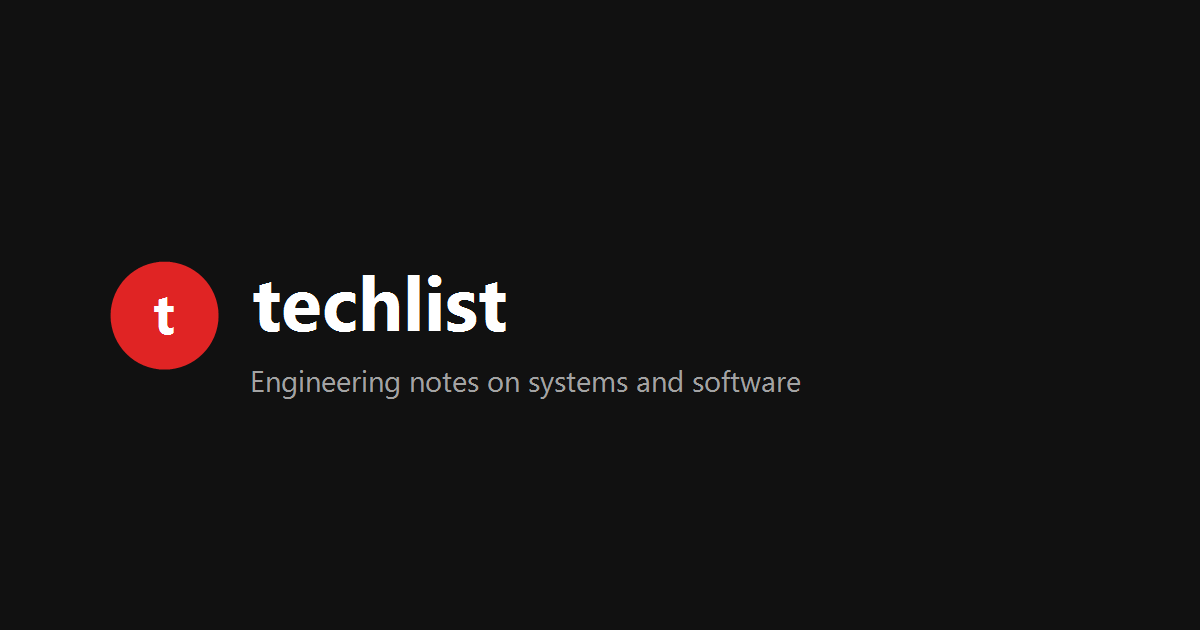
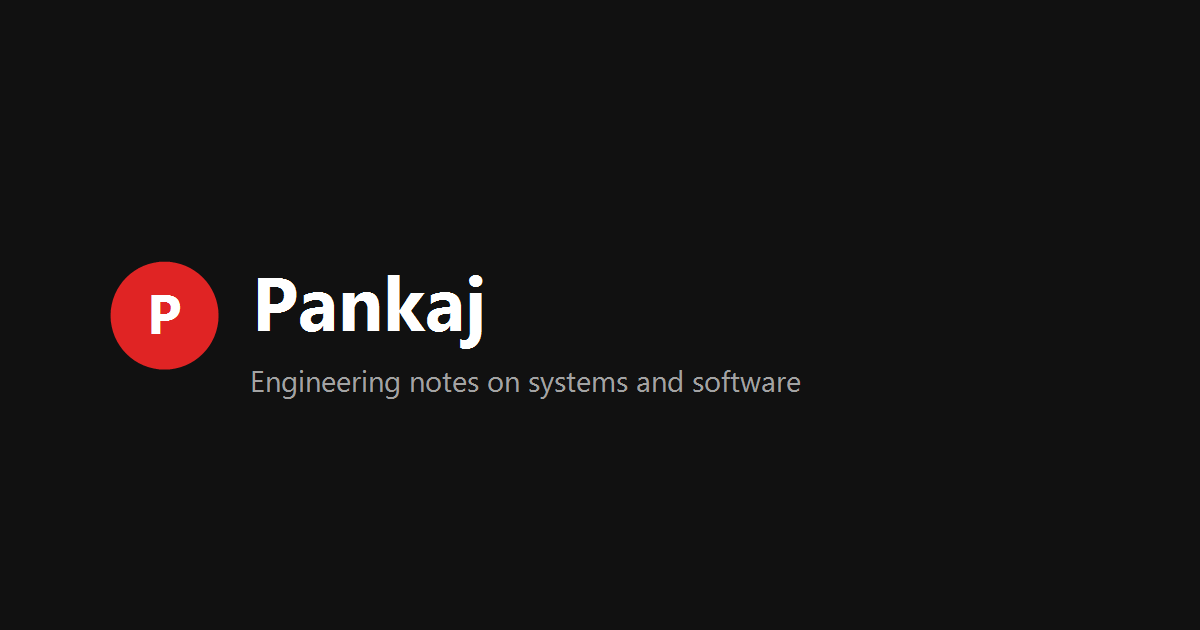
Rebrand the site to Pankaj and add password-only admin unlock.

Changed region(s): [[0.185, 0.4222, 0.4317, 0.573], [0.1233, 0.4524, 0.1542, 0.5429]]

diff --git a/src/lib/adminAuth.ts b/src/lib/adminAuth.ts
@@ -1,0 +1,26 @@
+import { createHash } from 'node:crypto';
+
+const SALT = 'techlist-admin';
+
+/**
+ * SHA-256 of salt + password.
+ * The plaintext password is never committed to git.
+ * Override at build time with ADMIN_PASSWORD if needed.
+ */
+const DEFAULT_PASSWORD_HASH =
[1 lines of base64/hex data omitted]
+
+function hashPassword(password: string): string {
+  return createHash('sha256').update(`${SALT}:${password}`).digest('hex');
+}
+
+export function getAdminAuthConfig() {
+  const password = import.meta.env.ADMIN_PASSWORD;
+  const credentialHash = password ? hashPassword(password) : DEFAULT_PASSWORD_HASH;
+
+  return {
+    enabled: true,
+    salt: SALT,
+    credentialHash,
+  };
+}

diff --git a/src/consts.ts b/src/consts.ts
@@ -1,8 +1,8 @@
 /** Site-wide identity used for SEO, RSS, CMS, and UI. */
-export const SITE_NAME = 'techlist';
+export const SITE_NAME = 'Pankaj';
 export const SITE_TAGLINE = 'Engineering notes on systems, software, and infrastructure.';
 export const SITE_DESCRIPTION =
-  'A personal technology publication covering software engineering, system design, distributed systems, databases, backend engineering, and AI.';
+  'Personal writing by Pankaj Chauhan on software engineering, system design, distributed systems, databases, backend engineering, and AI.';
 
 export const AUTHOR_NAME = 'Pankaj Chauhan';
 export const AUTHOR_ROLE = 'Software Engineer';

diff --git a/src/env.d.ts b/src/env.d.ts
@@ -2,6 +2,7 @@ interface ImportMetaEnv {
   readonly PUBLIC_SITE_URL?: string;
   readonly PUBLIC_GITHUB_REPO?: string;
   readonly PUBLIC_GITHUB_BRANCH?: string;
+  readonly ADMIN_PASSWORD?: string;
 }
 
 interface ImportMeta {

diff --git a/README.md b/README.md
@@ -1,6 +1,6 @@
-# techlist
+# Pankaj
 
-Personal technology publication for software engineering, system design, distributed systems, databases, backend engineering, and AI.
+Personal technology blog by Pankaj Chauhan covering software engineering, system design, distributed systems, databases, backend engineering, and AI.
 
 Posts live in Git as Markdown. There is no application database. GitHub is the source of truth. GitHub Pages hosts the public site. The `/admin` editor works locally and is locked on the live site.
 
@@ -141,23 +141,11 @@ The repo must stay **public** for free GitHub Pages on a personal account.
 
 ## Admin security
 
-`/admin` is locked on the live GitHub Pages site. Visitors see a “not public” page. The editor script is not loaded.
+`/admin` asks for a **password only**. The editor does not load until the password is correct.
 
-Write posts in one of these ways:
+GitHub Pages is static, so the page checks a hash of the password in the browser. The plaintext password is not stored in the repository. This blocks casual visitors; it is not as strong as server-side auth.
 
-1. Locally: `npm run dev` and `npx decap-server`, then open http://localhost:4321/admin
-2. In GitHub: add/edit Markdown under `src/content/blog/`
-
-Do not set `PUBLIC_ENABLE_CMS=true` on GitHub Pages. GitHub Pages has no server for OAuth, so a public CMS there would not be safely authenticatable.
-
-If you later host on Cloudflare Pages and want a web editor in production:
-
-1. Create a GitHub OAuth App (callback `https://your-domain/api/auth`)
-2. Set secrets `GITHUB_CLIENT_ID` and `GITHUB_CLIENT_SECRET`
-3. Set `PUBLIC_ENABLE_CMS=true`
-4. Only you (repo write access) can publish after GitHub login
-
-Never commit GitHub tokens.
+After unlock, Decap may still need GitHub permission to save posts on the live site. Locally, use `npm run dev` + `npx decap-server`. You can also edit Markdown under `src/content/blog/` on GitHub.
 
 ## Decap CMS (local)
 

diff --git a/src/content/blog/how-a-url-shortener-works.md b/src/content/blog/how-a-url-shortener-works.md
@@ -29,7 +29,7 @@ Two common ways to generate the code:
 ```text
 id = 125
 base62(125) -> "cb"
-https://techlist.dev/cb
+https://pankaj.dev/cb
 ```
 
 IDs are easier to reason about. You control uniqueness. You can shard the ID space. You can estimate capacity from key length: 6 base62 characters give about 56 billion codes.
@@ -42,7 +42,7 @@ A GET to the short path should be fast:
 
 ```http
 GET /cb HTTP/1.1
-Host: techlist.dev
+Host: pankaj.dev
 ```
 
 ```http
